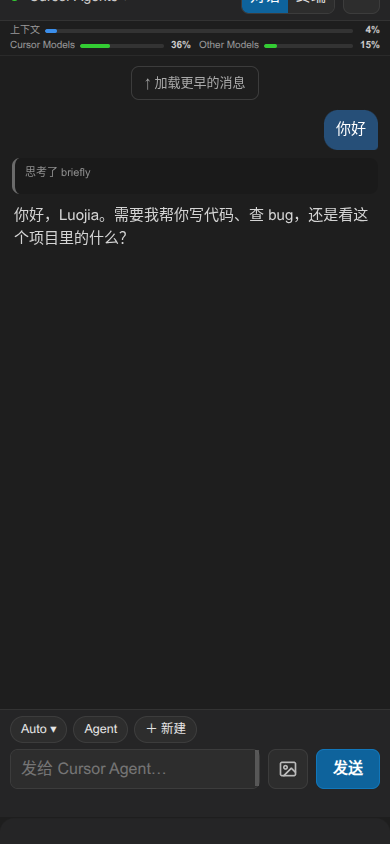
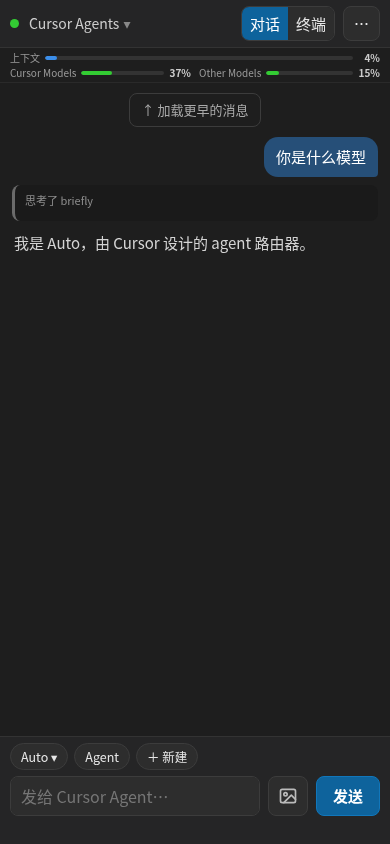
Replace the phone chat screenshot so the header stays fully visible.

diff --git a/README.md b/README.md
@@ -3,7 +3,7 @@
 用手机操作这台电脑上的 Cursor 和 Devin。对话、切换 Agent 和模型、看终端、批准确认，都在手机浏览器里完成。两个程序在手机的窗口列表里切换。
 
 <p>
-<img src="docs/phone.png" alt="手机上新建一条对话并发送你好" width="280">
+<img src="docs/phone.png" alt="手机上新建一条对话并询问你是什么模型" width="280">
 <img src="docs/terminal.png" alt="手机上的终端" width="280">
 </p>
 

diff --git a/README.en.md b/README.en.md
@@ -3,7 +3,7 @@
 Control Cursor and Devin on this computer from a phone: chat, switch agents and models, read the terminal, and approve steps.
 
 <p>
-<img src="docs/phone.png" alt="A new phone chat after sending hello" width="280">
+<img src="docs/phone.png" alt="A new phone chat asking which model this is" width="280">
 <img src="docs/terminal.png" alt="The phone terminal" width="280">
 </p>
 
